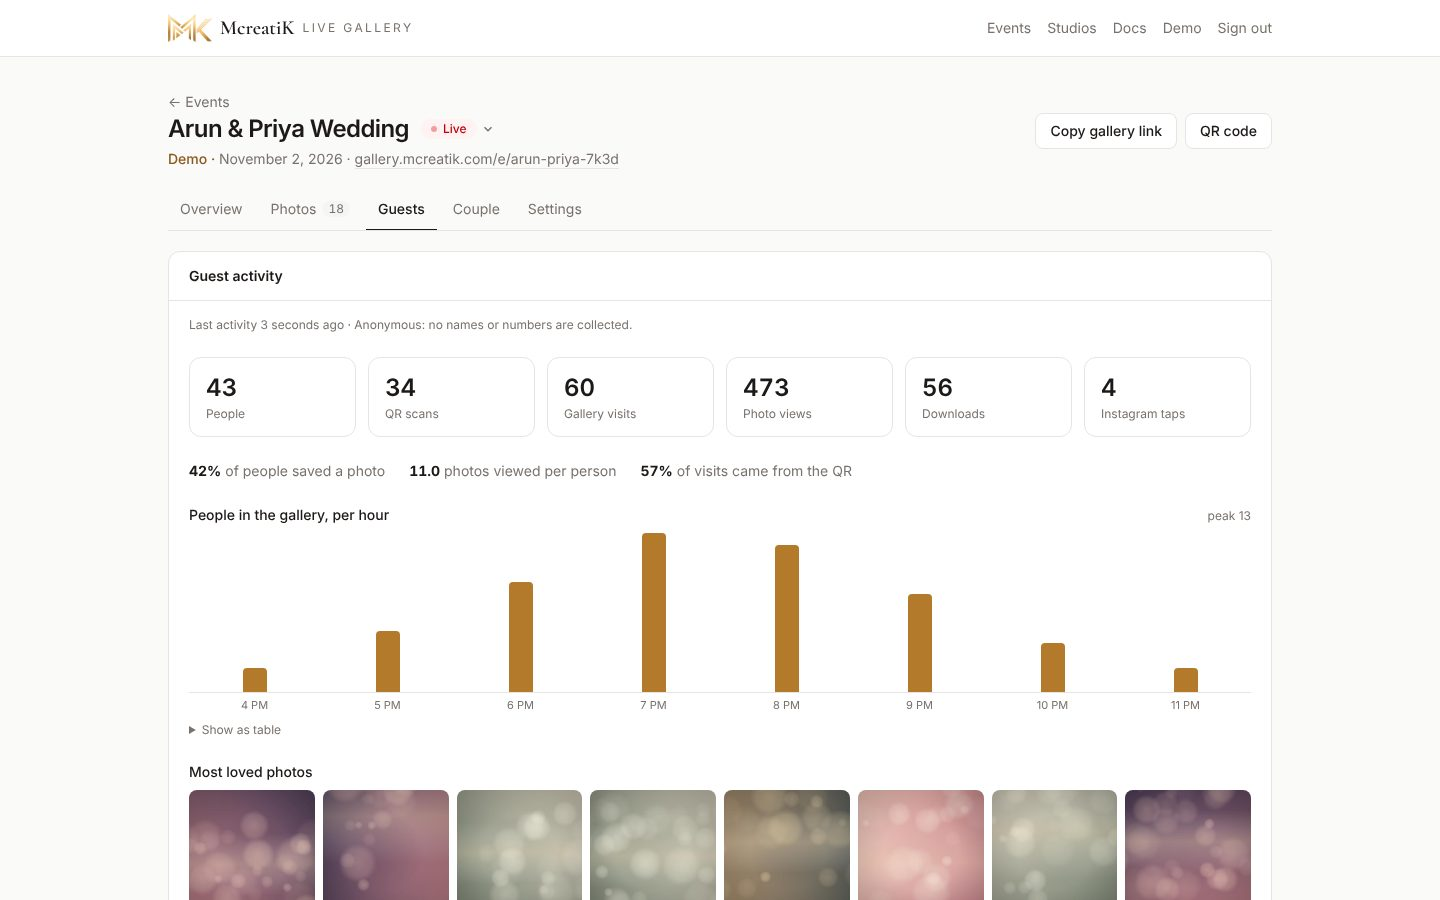
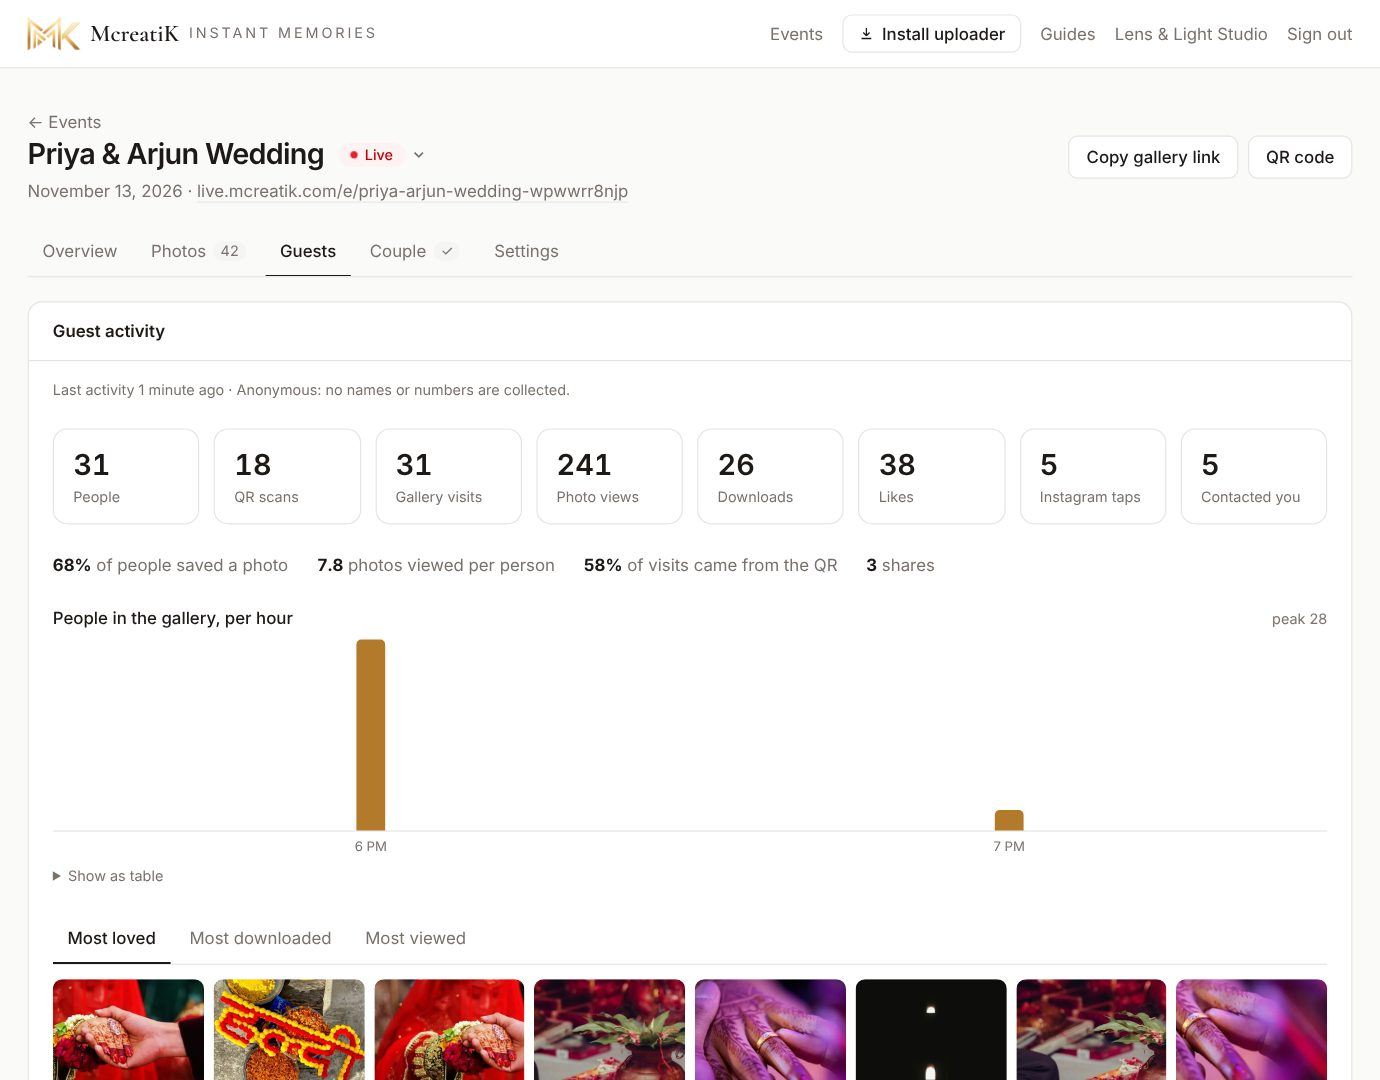
Instant Memories: current dashboard screenshots with a screen switcher
Replaces the old "Live Gallery" screenshots with the current app (demo
events): events list, event overview and guest activity. The For studios
tab shows them full width with an Events / Event overview / Guest activity
switcher so the app is readable.

diff --git a/src/components/instant-memories/Landing.jsx b/src/components/instant-memories/Landing.jsx
@@ -162,6 +162,32 @@ export function ImSteps() {
   )
 }
 
+/* Real studio dashboard screens (demo events), switchable. */
+const STUDIO_SCREENS = [
+  { id: 'events', label: 'Events', src: 'studio-events.jpg', alt: 'The studio’s events list: monthly pack usage and every event with its status and photo count' },
+  { id: 'overview', label: 'Event overview', src: 'studio-dashboard.jpg', alt: 'An event’s overview: photos, cameras online with Pause and Rename, storage, and the guest QR code with print files' },
+  { id: 'guests', label: 'Guest activity', src: 'studio-analytics.jpg', alt: 'Guest activity: people, QR scans, gallery visits, photo views, downloads and likes, per hour, with the most loved photos' },
+]
+
+function StudioScreens() {
+  const [shown, setShown] = useState('overview')
+  const screen = STUDIO_SCREENS.find((x) => x.id === shown)
+  return (
+    <div>
+      <div role="group" aria-label="Studio dashboard screens" className="mb-3 flex flex-wrap gap-2">
+        {STUDIO_SCREENS.map((x) => (
+          <button key={x.id} type="button" aria-pressed={shown === x.id} onClick={() => setShown(x.id)}
+            className={`cursor-pointer rounded-full border px-3 py-1.5 font-body text-sm transition-colors ${shown === x.id ? 'border-[#0E1116] bg-[#0E1116] text-white' : 'border-black/10 text-[#4A505C] hover:border-[#0E1116] hover:text-[#0E1116]'}`}>
+            {x.label}
+          </button>
+        ))}
+      </div>
+      <img key={screen.id} src={`${IM_IMG}/${screen.src}`} alt={screen.alt} loading="lazy" width="1380" height="1080"
+        className="w-full rounded-xl border border-black/10 shadow-xl shadow-black/10" />
+    </div>
+  )
+}
+
 const AUDIENCES = [
   { id: 'studios', label: 'For studios', title: 'Your work, live, under your name.', items: IM_FOR_STUDIOS, shot: 'dashboard' },
   { id: 'couples', label: 'For couples', title: 'Their photos, their way.', items: IM_FOR_COUPLES, shot: `${IM_IMG}/couple-portal.jpg` },
@@ -186,10 +212,10 @@ export function ImAudiences() {
             </button>
           ))}
         </div>
-        <div role="tabpanel" className="mt-10 grid items-start gap-12 lg:grid-cols-[1.1fr_0.9fr]">
+        <div role="tabpanel" className={`mt-10 grid items-start gap-12 ${a.shot === 'dashboard' ? '' : 'lg:grid-cols-[1.1fr_0.9fr]'}`}>
           <div>
             <h3 className="font-display text-2xl font-bold text-[#0E1116]">{a.title}</h3>
-            <ul className="mt-6 grid gap-x-8 gap-y-6 sm:grid-cols-2">
+            <ul className={`mt-6 grid gap-x-8 gap-y-6 sm:grid-cols-2 ${a.shot === 'dashboard' ? 'lg:grid-cols-4' : ''}`}>
               {a.items.map(({ title, body }) => (
                 <li key={title} className="border-t border-black/10 pt-4">
                   <p className="font-body text-[17px] font-semibold text-[#0E1116]">{title}</p>
@@ -198,14 +224,9 @@ export function ImAudiences() {
               ))}
             </ul>
           </div>
-          <div className="lg:sticky lg:top-24">
+          <div className={a.shot === 'dashboard' ? 'mx-auto w-full max-w-5xl' : 'lg:sticky lg:top-24'}>
             {a.shot === 'dashboard' ? (
-              <div className="space-y-4">
-                <img src={`${IM_IMG}/studio-dashboard.jpg`} alt="The studio dashboard: cameras online, photo counts and the event's QR code" loading="lazy"
-                  width="1440" height="900" className="w-full rounded-xl border border-black/10 shadow-xl shadow-black/10" />
-                <img src={`${IM_IMG}/studio-analytics.jpg`} alt="Guest activity: people, QR scans, photo views and downloads per hour" loading="lazy"
-                  width="1440" height="900" className="w-full rounded-xl border border-black/10 shadow-xl shadow-black/10" />
-              </div>
+              <StudioScreens />
             ) : (
               <div className="mx-auto w-full max-w-[260px]">
                 <Phone src={a.shot} alt={a.id === 'couples'

diff --git a/src/components/instant-memories/story/StoryMocks.jsx b/src/components/instant-memories/story/StoryMocks.jsx
@@ -290,7 +290,7 @@ function ZipMock() {
 function InsightsMock() {
   return (
     <AppWindow url="live.mcreatik.com/events/meera-arun?tab=guests">
-      <img src={`${IMG}/studio-analytics.jpg`} alt="" loading="lazy" width="1440" height="900" className="block w-full" />
+      <img src={`${IMG}/studio-analytics.jpg`} alt="" loading="lazy" width="1380" height="1080" className="block w-full" />
     </AppWindow>
   )
 }
